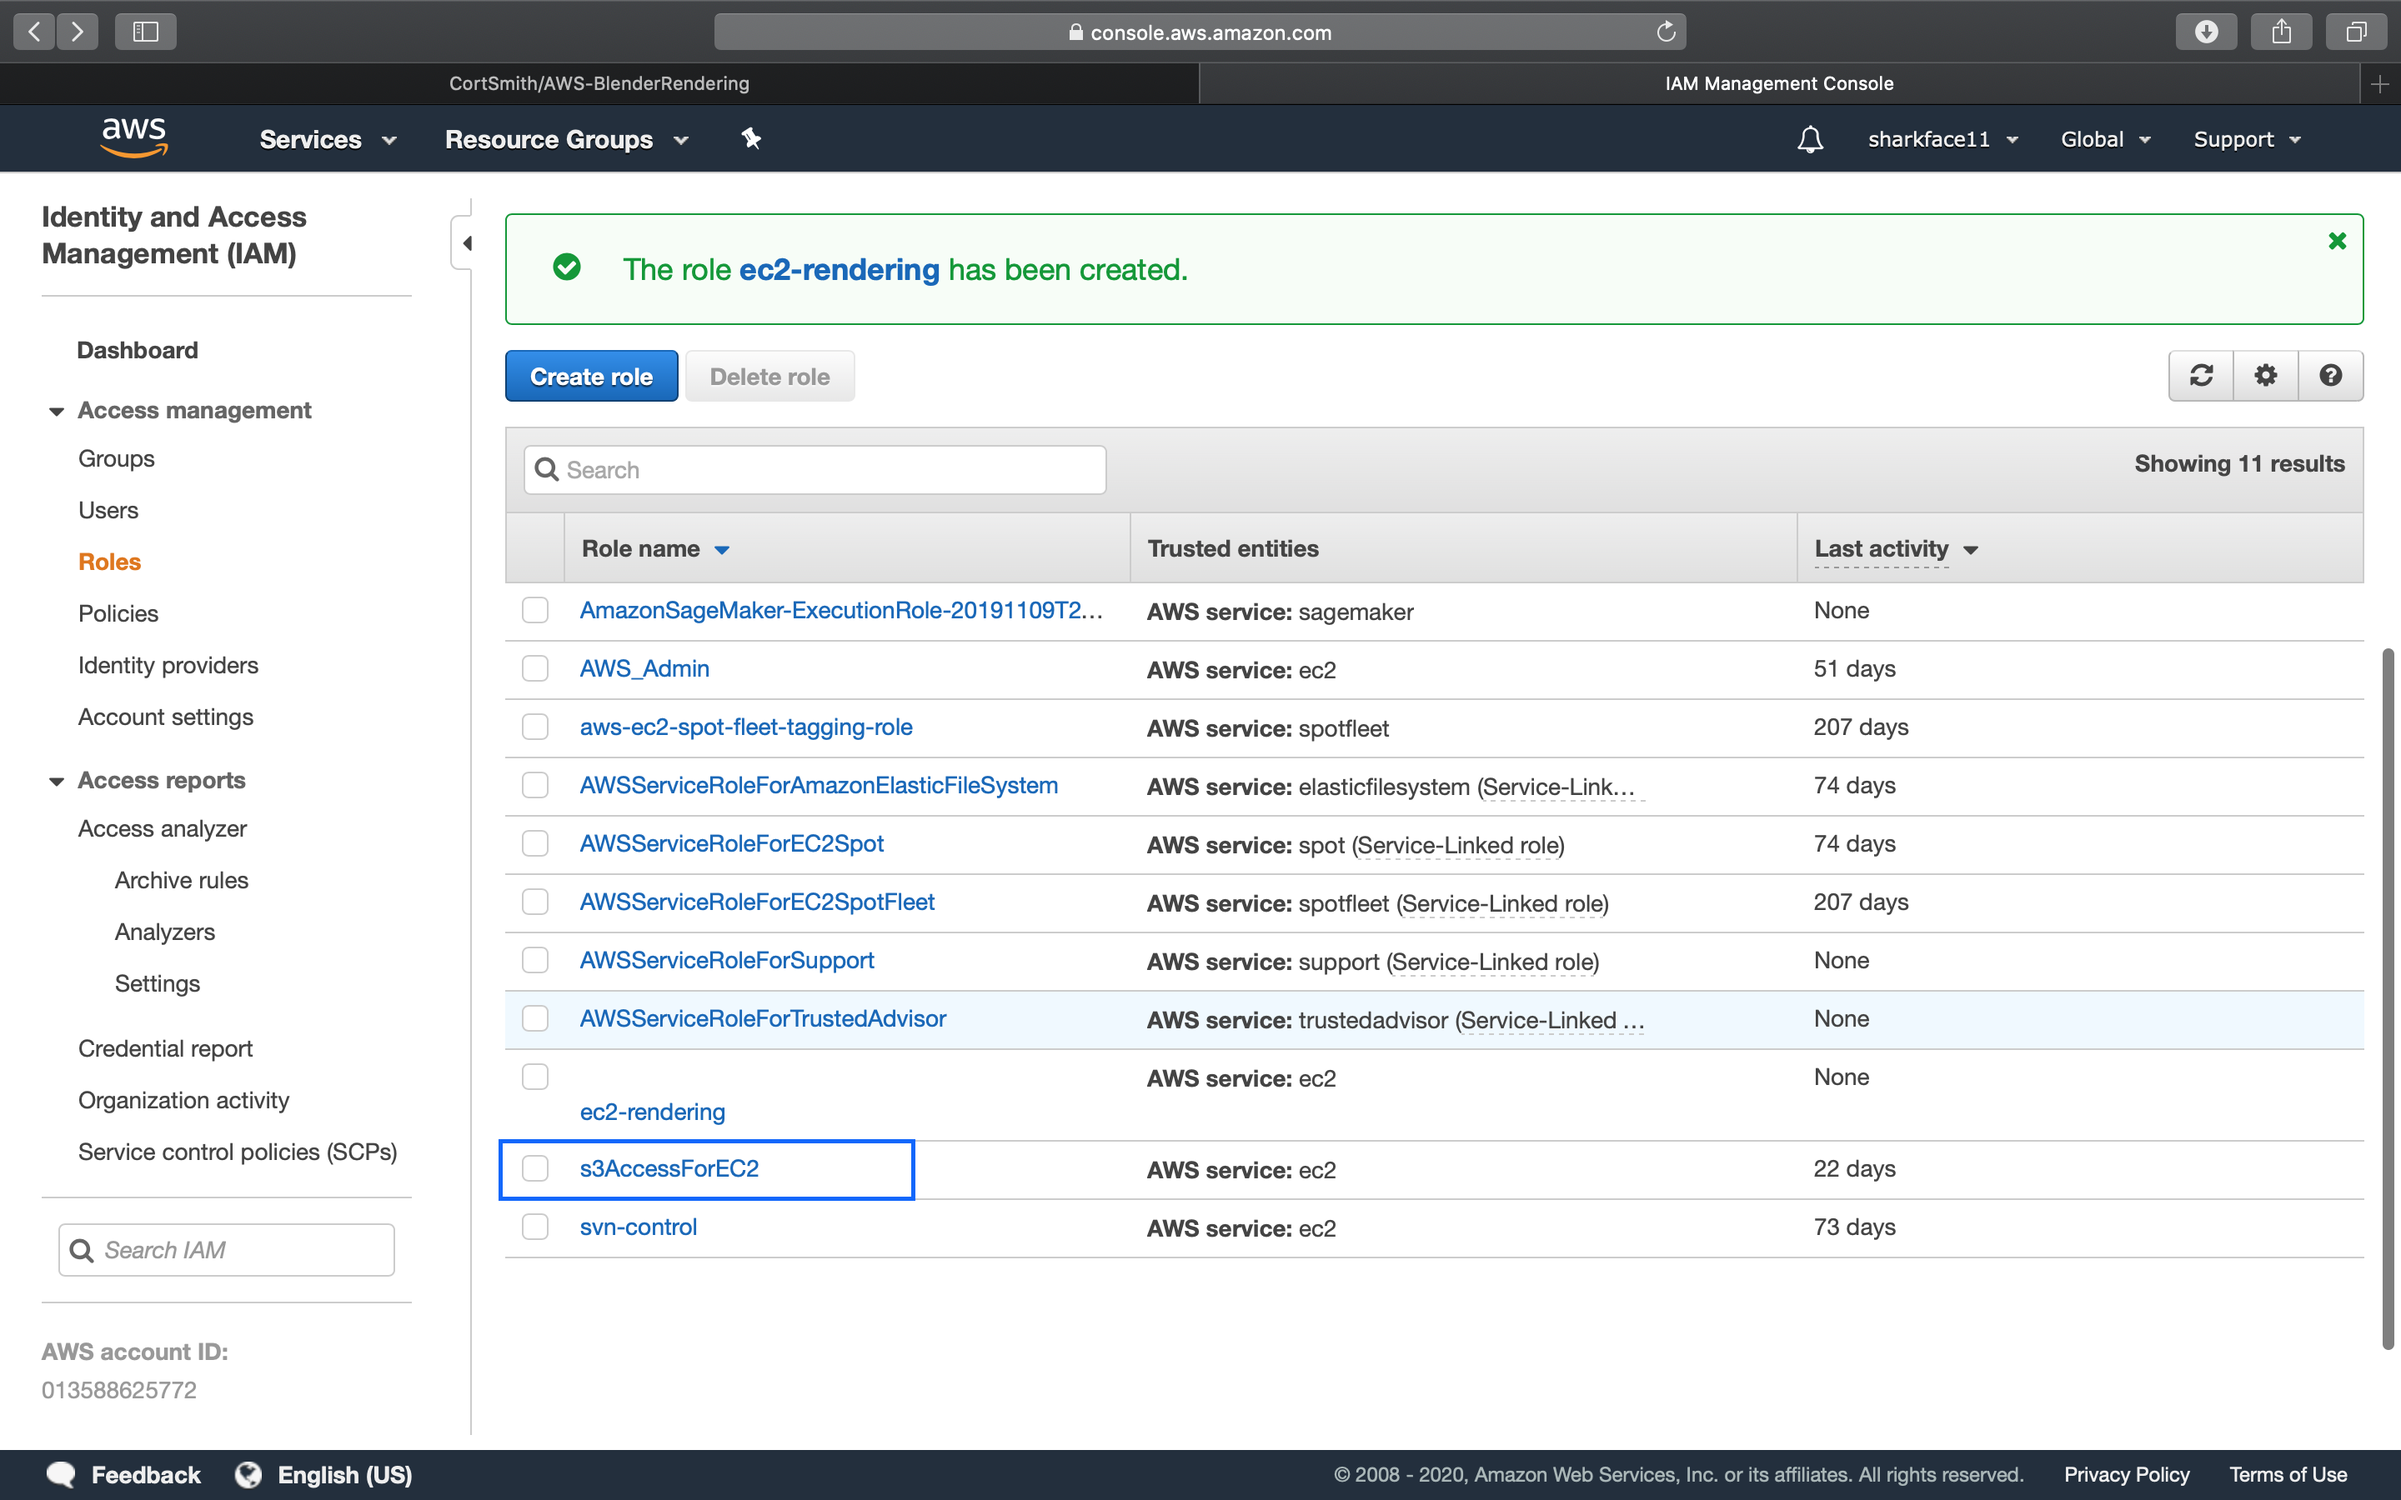
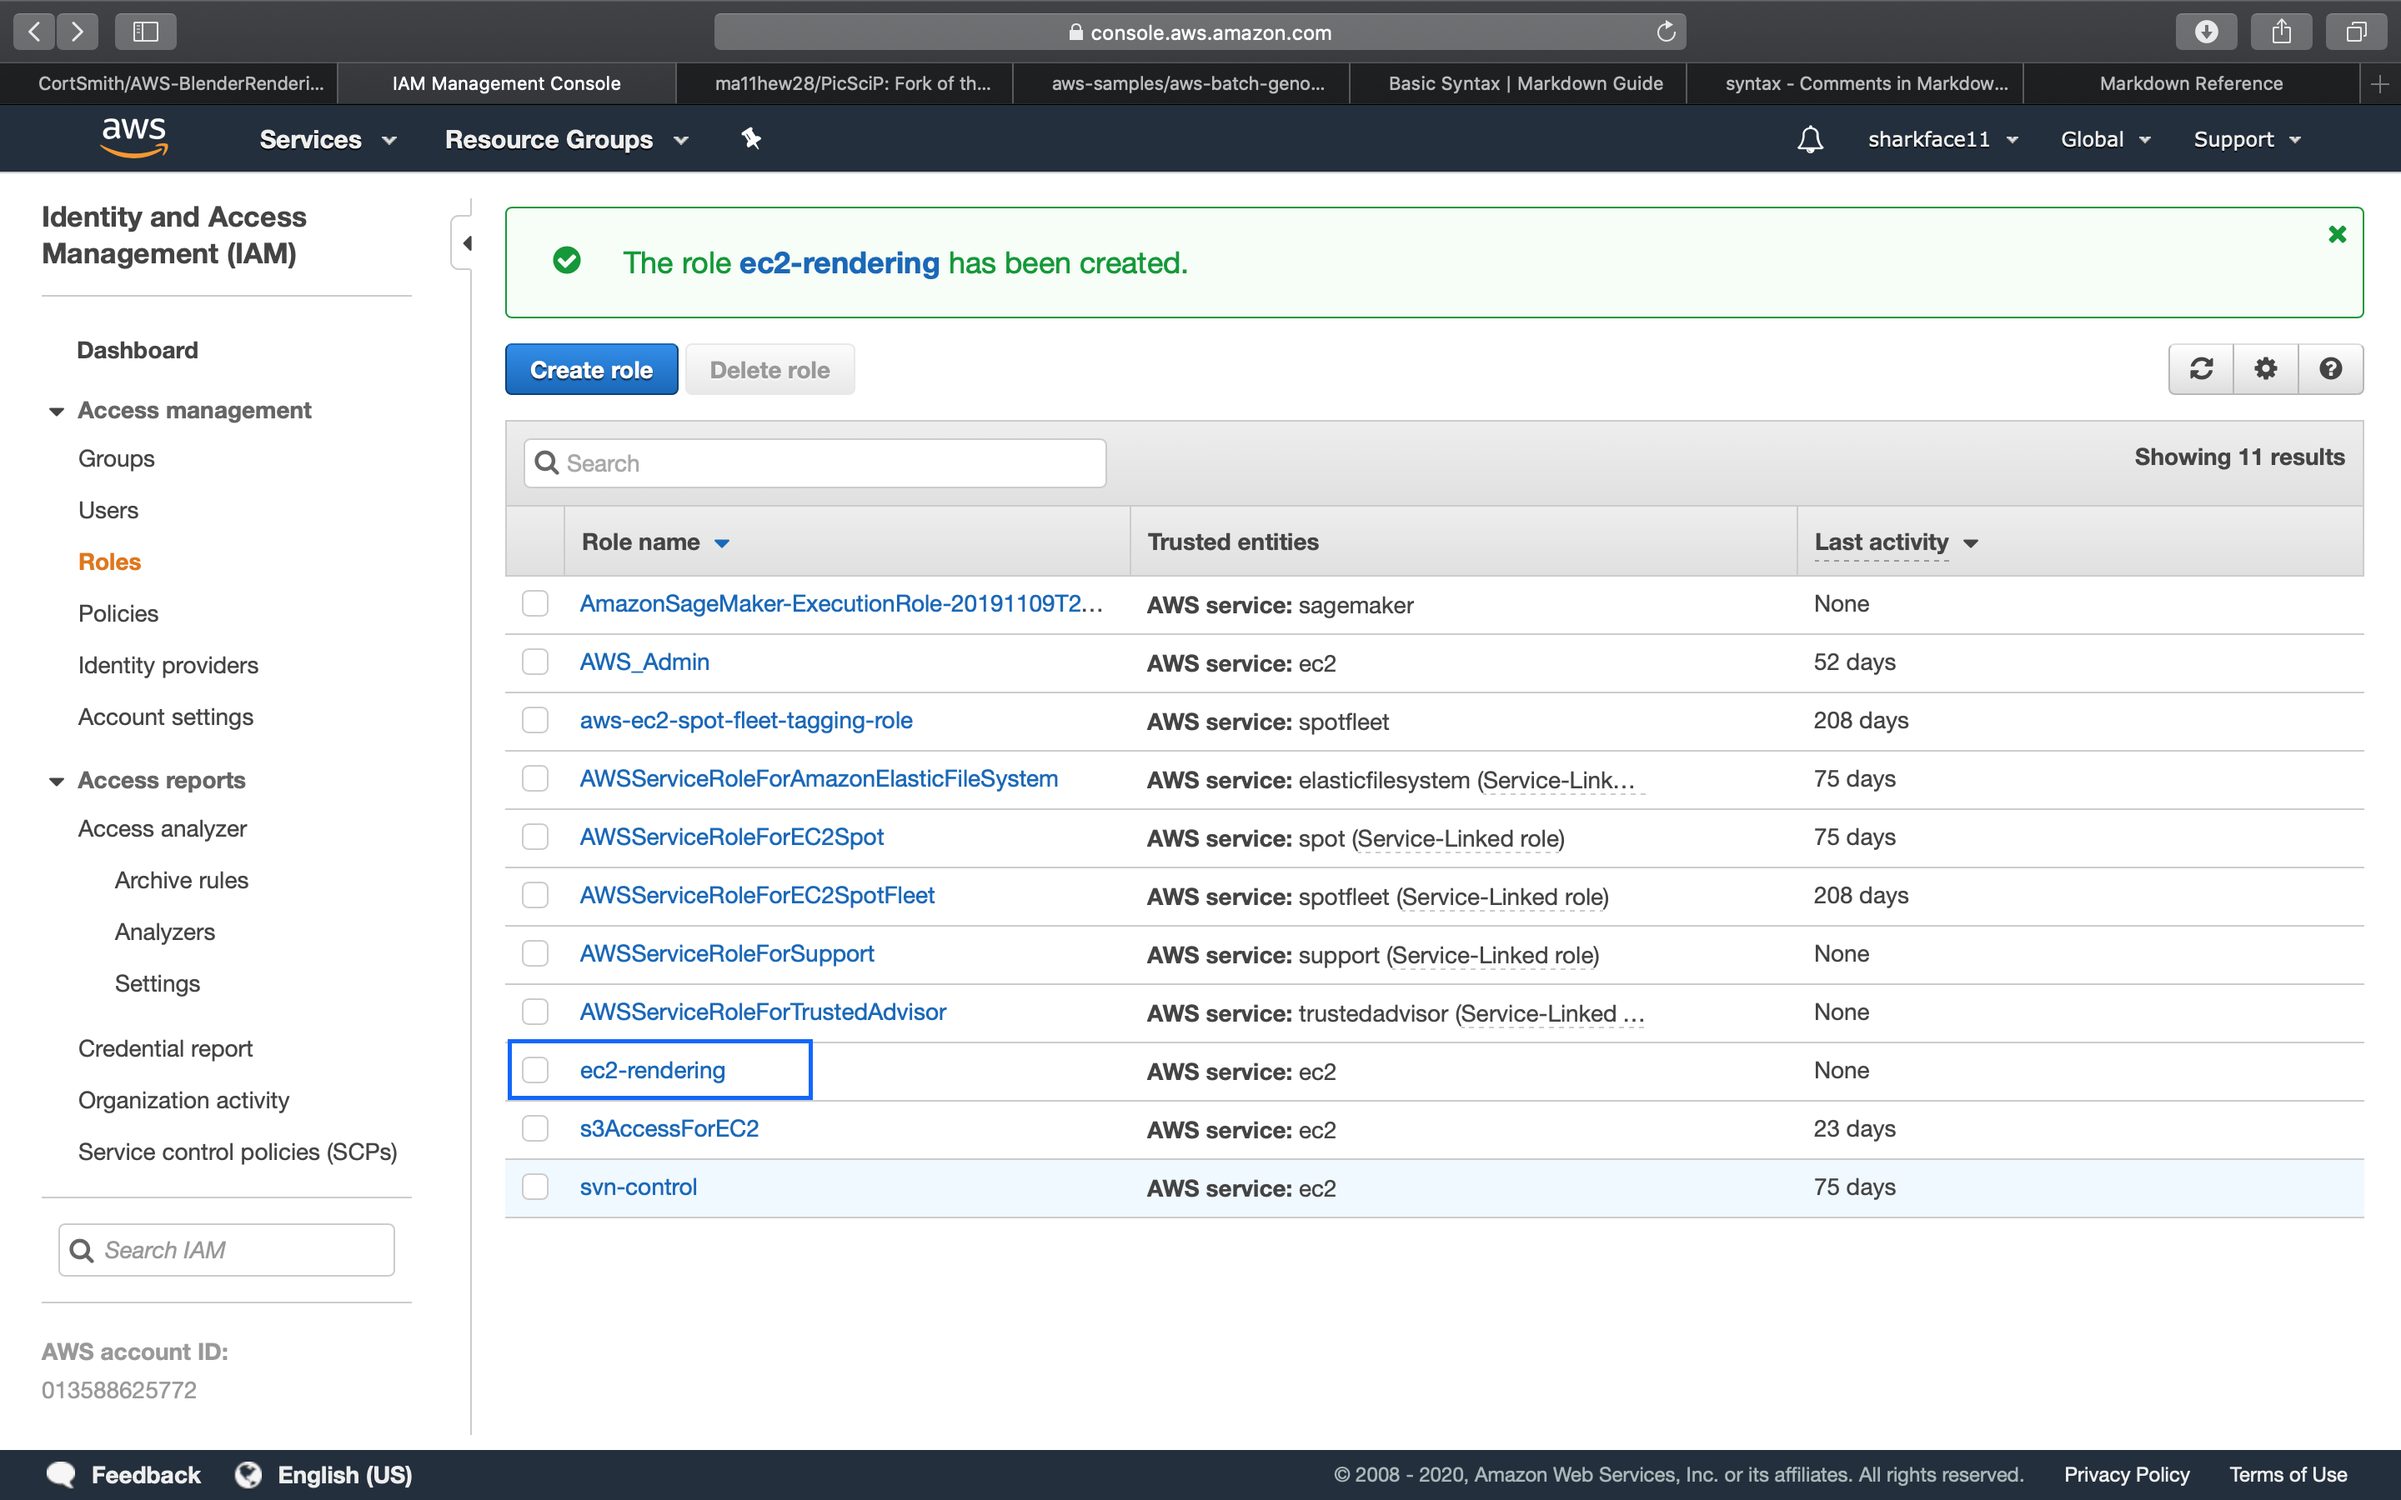
Updated Readme. Added a section for creating a security group and key pair. Updated the images shown in the readme to reduce clutter and make for easier reading.

diff --git a/README.md b/README.md
@@ -16,12 +16,17 @@ Amazon Web Services, Blender, and Python.
     - Click the Create Bucket button.
     
     - Give it a name; must be unique among all buckets on the internet.
+        
+        - For this tutorial, I will be naming mine 'render-output'.
     
     - Select the region you will be running your ec2 instance from.
+        
+        - For this tutorial, I will be running in US West (Oregon).
     
     - Skip the next two sections. 
         Those are additional options for more control over bucket access, and
-        versioning.
+        versioning bucket objects (aka, your files; versioning allows you to overwrite files 
+        with the same name, but keeping the original versions as copies).
     
     - Look over the settings of your bucket and click Create
     
@@ -29,6 +34,9 @@ Amazon Web Services, Blender, and Python.
     your own computer or ec2 instance.
     
     - This is what your bucket should look like:
+    
+    ![](./source-md/S3-7-bucketList.png)
+    ![](./source-md/S3-8-insideBucket.png)
     
 ---
 
@@ -48,11 +56,18 @@ Amazon Web Services, Blender, and Python.
     for this tutorial we will simply use full access.
   
   - Enter the name and description and click create.
+    
+    - For this tutorial, I will name it ec2-rendering.
   
-  - The description should describe its use case, for our case we are using this 
-    bucket for storing our blender rendering output images.
+  - The description should describe its use case.
+    
+    - For this tutorial, we will alter the filler description by adding 'S3' to it:
+    
+      - Allows EC2 instances to call AWS S3 services on your behalf.
   
   - This is what you should see after you create the role:
+  
+  ![](./source-md/IAM-6-RoleCreated.png)
 
 ---
 
@@ -77,16 +92,48 @@ Under Network & Security, find and select Security Groups.
 - On the top right of the page, click the Create Security Group button.
 
 - Enter a name and description.
+  
+  - For this tutorial, I will be setting these to:
+  
+    - Name -> ec2-rendering
+    - Description -> Key for ec2 rendering instances
 
 - For simplicities sake, we will adding only one rule for All Traffic.
 
 - Under Inbound Rules and Outbound Rules, click Add Rule.
 
-    - Change the Type to All Traffic.
-    
-    - Change Source to My IP
-    
-    - Do the same under Outbound Rules
+  - Change the Type to All Traffic.
+
+  - Change Source to My IP
+
+  - Do the same under Outbound Rules
+  
+- Keep in mind you can change the Inbound and Outbound Rules at any time to adjust to your current needs, or 
+requirements, such as, allowing other ip's to connect and not just yours.
+
+![](./source-md/SG-1-Created.png)
+
+---
+
+### Creating a Key Pair
+
+- Key pairs are encrypted keys used to connect to aws services, and are required to connect to EC2.
+
+- Navigate to the EC2 Dashboard by searching 'EC2' in the services tab at the top of the website page.
+
+- Find 'Network & Security' tab, and select 'Key Pairs'.
+
+- On the top right, click 'Create Key Pair'
+
+- Enter a name.
+  
+  - For this tutorial, I will be naming mine 'ec2-rendering'
+  and setting the file format to '.pem'
+
+- Click Create Key Pair, and download the key file. Make sure you save the key file to your hard drive, otherwise 
+you will need to recreate your key, there is no other way to get a copy of your key pair.
+
+![](./source-md/KP-1-KeypairCreated.png)
 
 ---
 
